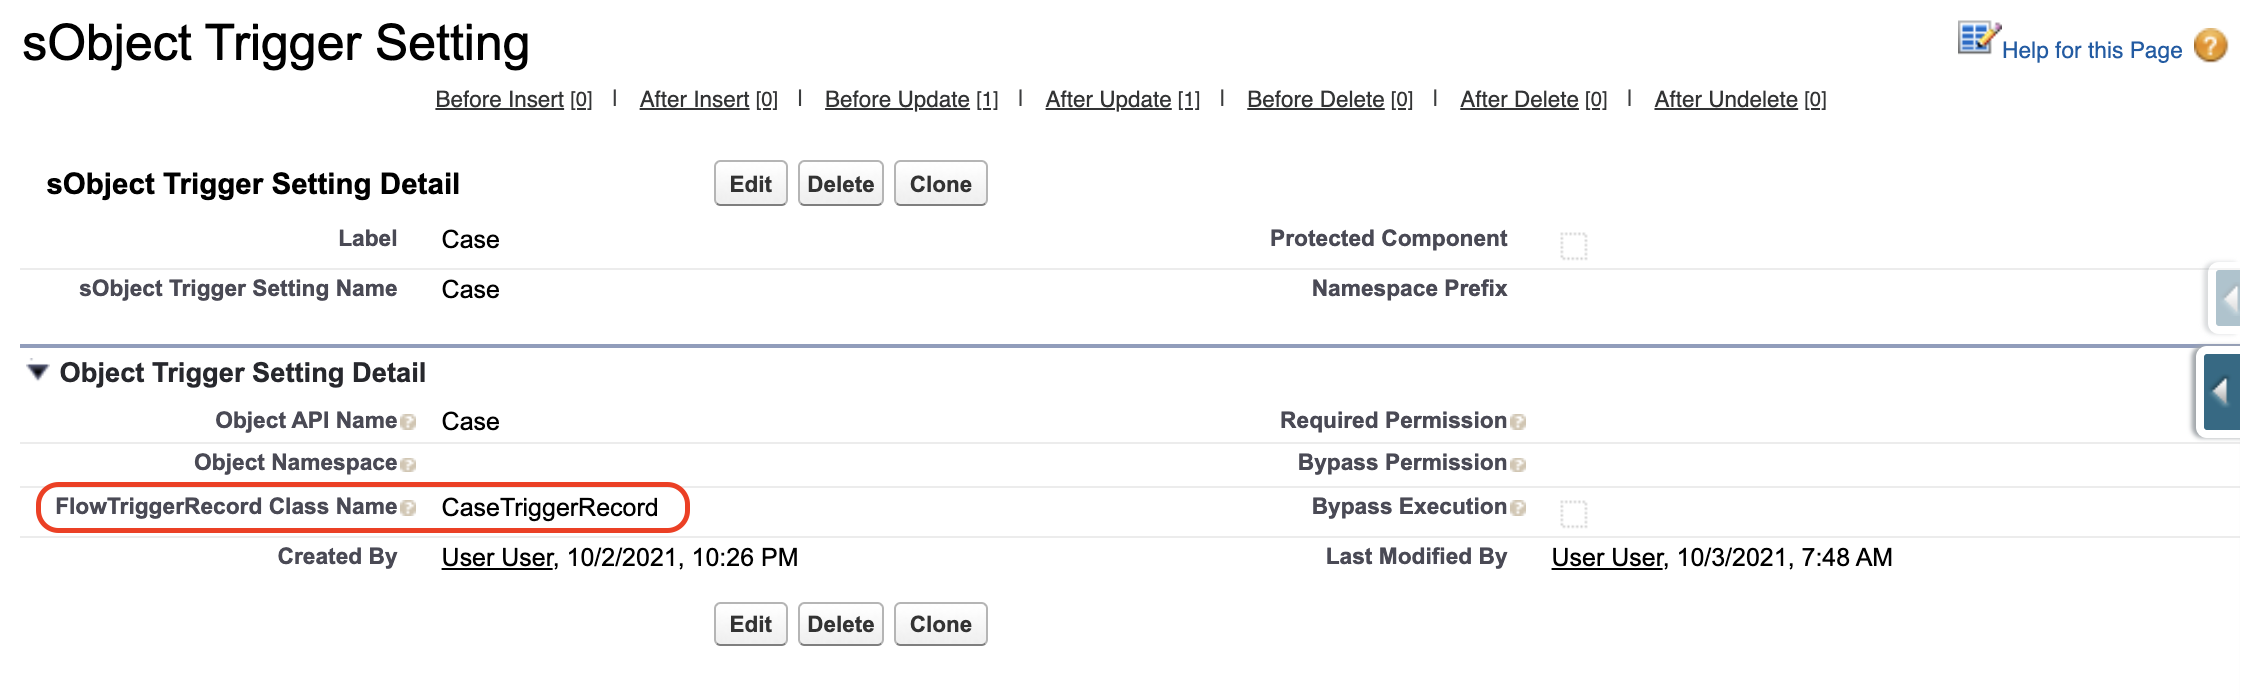
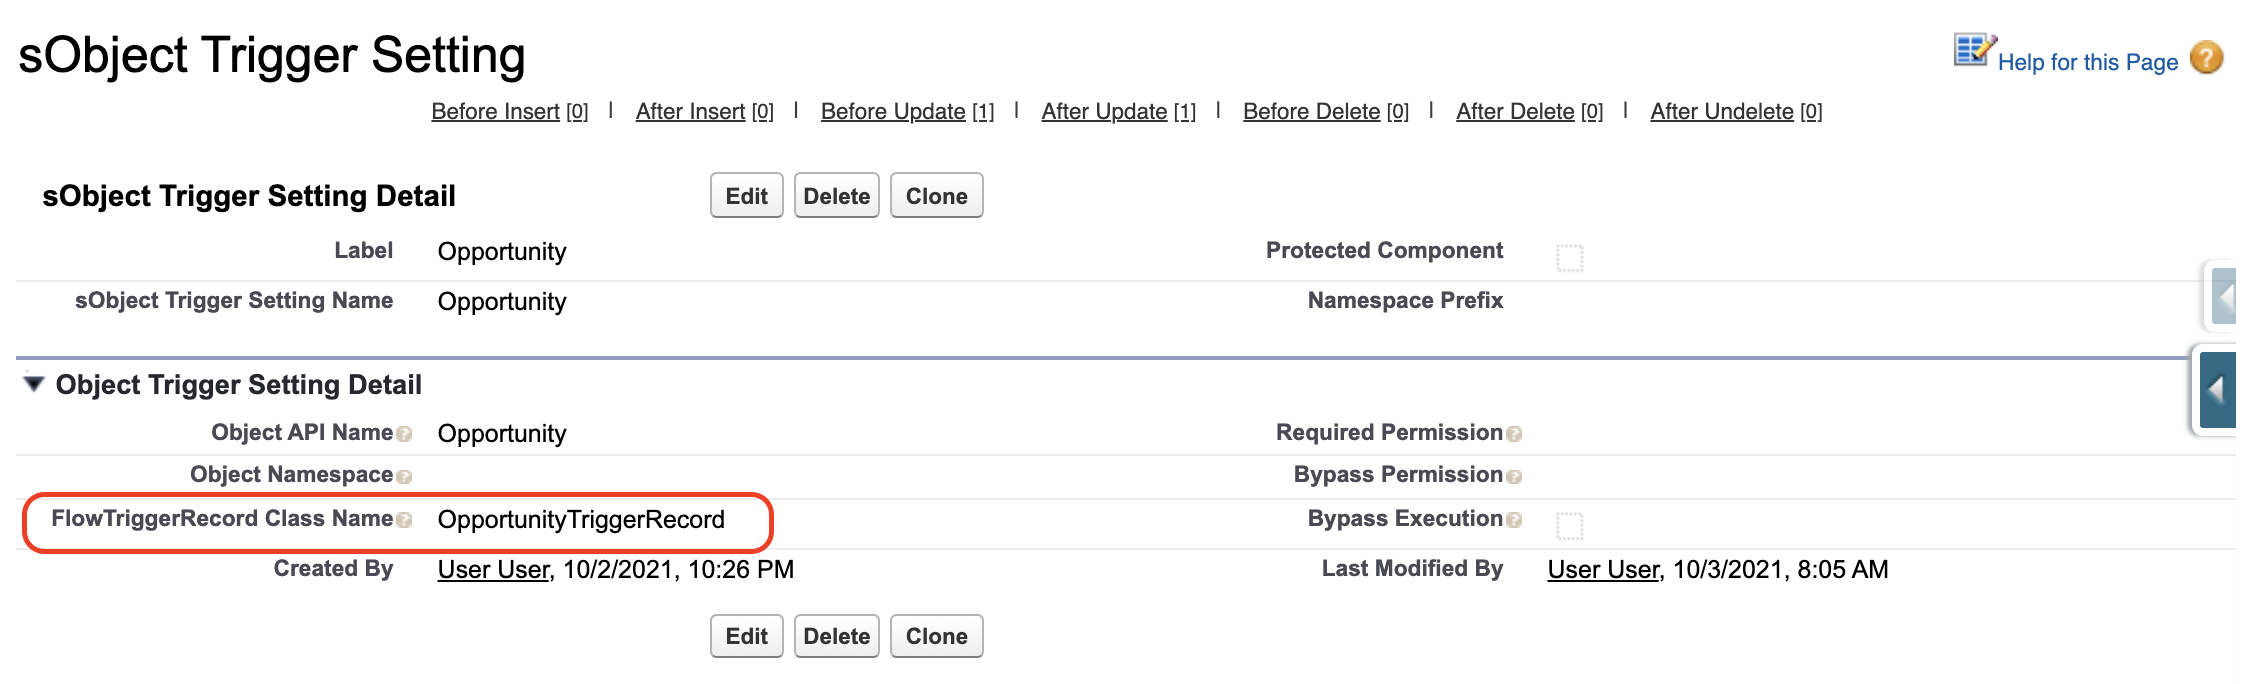
update readme
Make all examples of use Opportunity SObject

diff --git a/README.md b/README.md
@@ -99,7 +99,7 @@ With this multiplicity of Apex classes, it would be wise to follow a naming conv
 
 The trigger action framework can also allow you to invoke a flow by name, and determine the order of the flow's execution amongst other trigger actions in a given trigger context.
 
-Here is an example of a trigger action flow that checks if a Case's status has changed and if so it sets the Case's description to a default value.
+Here is an example of a trigger action flow that checks if a record's status has changed and if so it sets the record's description to a default value.
 
 ![Sample Flow](images/sampleFlow.png)
 
@@ -108,20 +108,20 @@ Here is an example of a trigger action flow that checks if a Case's status has c
 To enable Trigger Action Flows on a given sObject, you must first author a class which creates an Apex defined data type to be referenced in flows and can generate the required input to launch the flow from a trigger context. This class must extend `FlowTriggerRecord`, provide @AuraEnabled properties for interacting with the old and new versions of the records within flow, and support a zero-argument constructor.
 
 ```java
-public with sharing class CaseTriggerRecord extends FlowTriggerRecord {
+public with sharing class OpportunityTriggerRecord extends FlowTriggerRecord {
 
-  public CaseTriggerRecord() {
+  public OpportunityTriggerRecord() {
     super();
   }
 
-  public CaseTriggerRecord(Case newRecord, Case oldRecord, Integer newRecordIndex) {
+  public OpportunityTriggerRecord(Opportunity newRecord, Opportunity oldRecord, Integer newRecordIndex) {
     super(newRecord, oldRecord, newRecordIndex);
   }
 
   @AuraEnabled
-  public Case newRecord {
+  public Opportunity newRecord {
     get {
-      return (Case) this.newSObject;
+      return (Opportunity) this.newSObject;
     }
     set {
       this.newSObject = value;
@@ -129,9 +129,9 @@ public with sharing class CaseTriggerRecord extends FlowTriggerRecord {
   }
 
   @AuraEnabled
-  public Case oldRecord {
+  public Opportunity oldRecord {
     get {
-      return (Case) this.oldSObject;
+      return (Opportunity) this.oldSObject;
     }
   }
 
@@ -140,11 +140,11 @@ public with sharing class CaseTriggerRecord extends FlowTriggerRecord {
     List<SObject> oldList
   ) {
     List<SObject> collection = newList != null ? newList : oldList;
-    List<CaseTriggerRecord> triggerRecords = new List<CaseTriggerRecord>();
+    List<OpportunityTriggerRecord> triggerRecords = new List<OpportunityTriggerRecord>();
     for (Integer i = 0; i < collection.size(); i++) {
-      Case newCase = newList != null ? (Case) newList.get(i) : null;
-      Case oldCase = oldList != null ? (Case) oldList.get(i) : null;
-      triggerRecords.add(new CaseTriggerRecord(newCase, oldCase, i));
+      Opportunity newOpportunity = newList != null ? (Opportunity) newList.get(i) : null;
+      Opportunity oldOpportunity = oldList != null ? (Opportunity) oldList.get(i) : null;
+      triggerRecords.add(new OpportunityTriggerRecord(newOpportunity, oldOpportunity, i));
     }
     return new Map<String, Object>{
       TriggerActionFlow.TRIGGER_RECORDS_VARIABLE => triggerRecords
